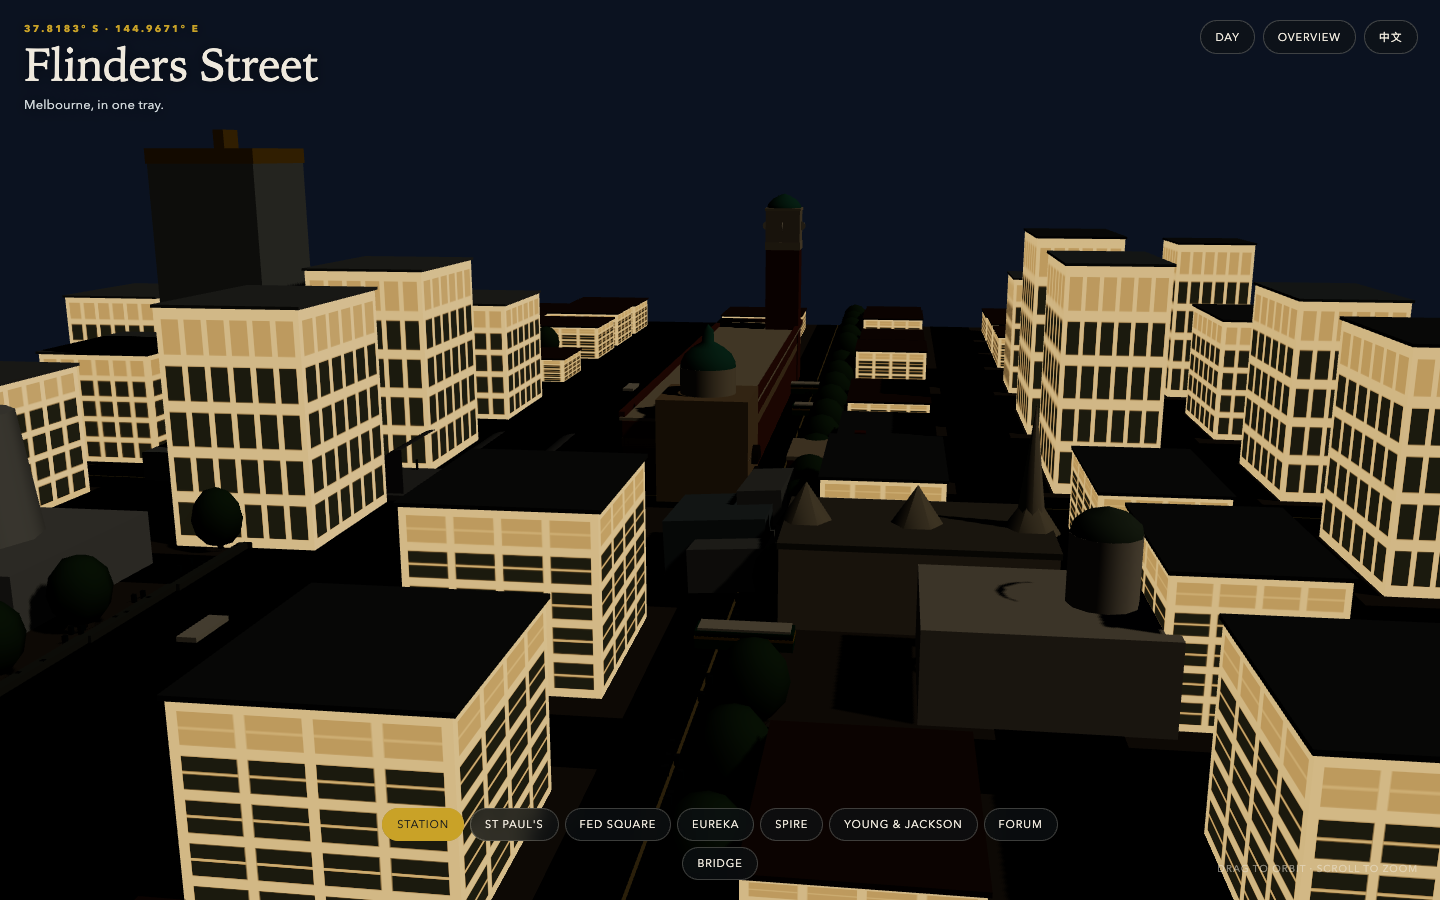
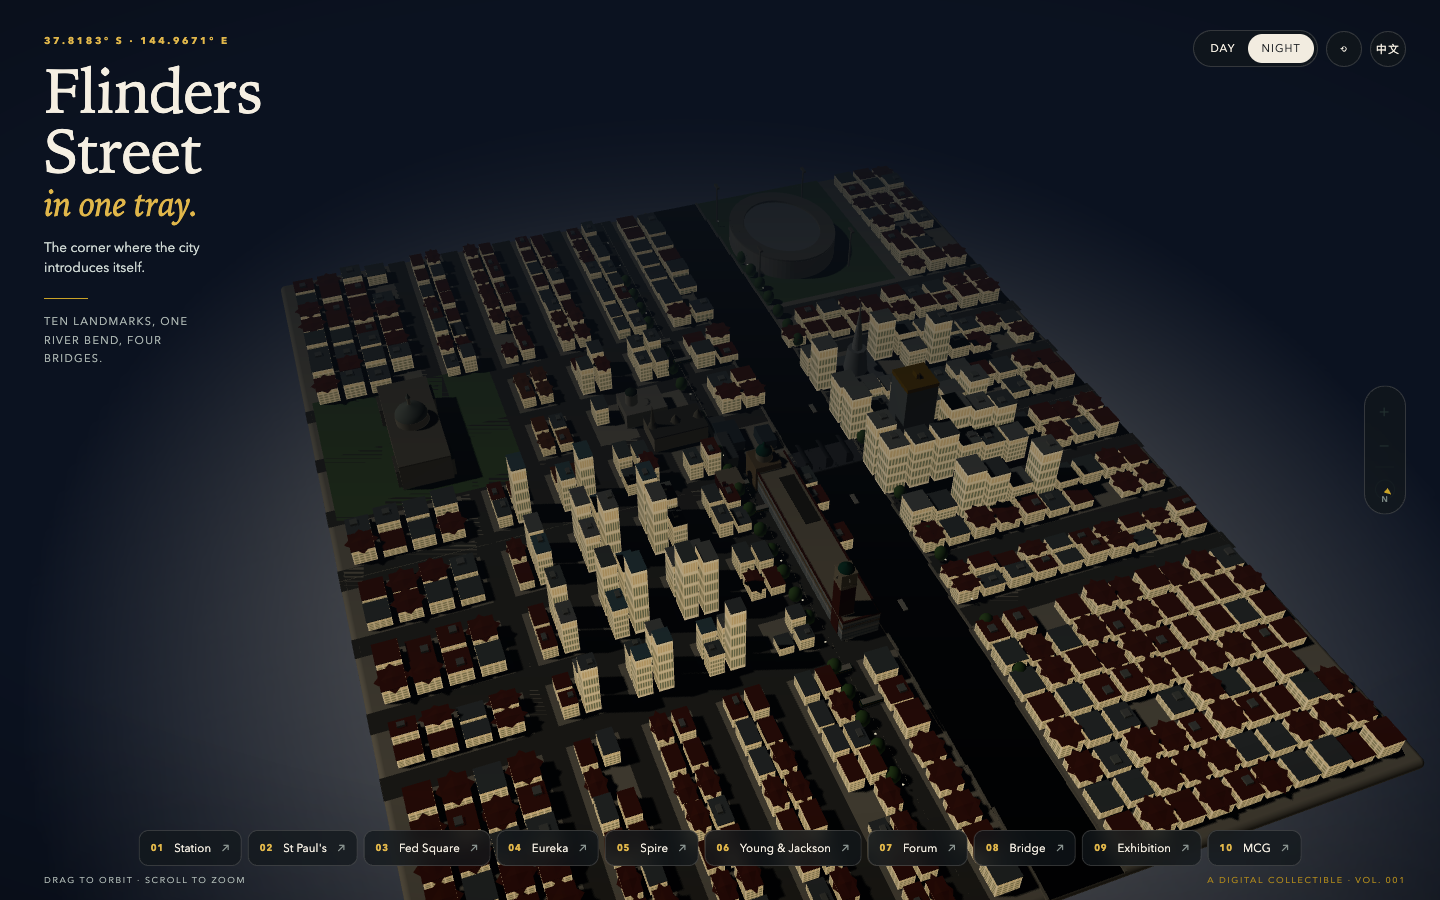
Stepped MCG bowl, street lamps, night-aware UI, per-landmark flight distance

diff --git a/src/scene/environment.ts b/src/scene/environment.ts
@@ -5,7 +5,7 @@ import { riverNorthEdge, riverSouthEdge } from './geography'
 import { instanced, rng, type Instance } from './kit'
 import { roads } from './plan'
 
-export function buildEnvironment(): { group: THREE.Group; water: THREE.Mesh; ground: THREE.Mesh } {
+export function buildEnvironment(): { group: THREE.Group; water: THREE.Mesh; ground: THREE.Mesh; lampHeads: THREE.InstancedMesh } {
   const group = new THREE.Group()
   group.name = 'environment'
   const rand = rng(3)
@@ -137,5 +137,24 @@ export function buildEnvironment(): { group: THREE.Group; water: THREE.Mesh; gro
     group.add(shelter)
   }
 
-  return { group, water, ground }
+  // street lamps: dark posts with warm glowing heads
+  const posts: Instance[] = []
+  const heads: Instance[] = []
+  for (let u = -340; u < 430; u += 46) {
+    for (const v of [-11, 118]) {
+      posts.push({ u, v, w: 0.45, d: 0.45, h: 7.5, color: 0x4a5052 })
+      heads.push({ u, v, w: 1.3, d: 1.3, h: 0.5, y: 7.5, color: 0xffe3b0 })
+    }
+  }
+  const lampPostMesh = instanced(new THREE.CylinderGeometry(0.3, 0.4, 1, 5), new THREE.MeshLambertMaterial({ color: 0xffffff }), posts, 'lampposts')
+  const lampHeadMesh = instanced(
+    new THREE.SphereGeometry(0.75, 8, 6),
+    new THREE.MeshLambertMaterial({ color: 0xfff2d4, emissive: 0xffc46b, emissiveIntensity: 0 }),
+    heads,
+    'lampheads'
+  )
+  group.add(lampPostMesh)
+  group.add(lampHeadMesh)
+
+  return { group, water, ground, lampHeads: lampHeadMesh }
 }

diff --git a/src/scene/landmarks.ts b/src/scene/landmarks.ts
@@ -1,4 +1,5 @@
 import * as THREE from 'three'
+import { mergeGeometries } from 'three/addons/utils/BufferGeometryUtils.js'
 import { PALETTE } from './constants'
 import { facadeTexture } from './kit'
 
@@ -244,6 +245,30 @@ function mcg(): THREE.Group {
   bowl.castShadow = true
   bowl.receiveShadow = true
   g.add(bowl)
+
+  // stepped seating: two merged tiers rings, alternating pale blue and grey
+  const tiers: THREE.BufferGeometry[][] = [[], []]
+  for (let i = 0; i < 15; i++) {
+    const o = new THREE.Shape()
+    o.absellipse(0, 0, 52 + i * 1.25, 40 + i * 1.0, 0, Math.PI * 2, false, 0)
+    const h = new THREE.Path()
+    h.absellipse(0, 0, 52 + (i + 1) * 1.25, 40 + (i + 1) * 1.0, 0, Math.PI * 2, true, 0)
+    o.holes.push(h)
+    const g = new THREE.ExtrudeGeometry(o, { depth: 1.1, bevelEnabled: false, curveSegments: 30 })
+    g.rotateX(-Math.PI / 2)
+    g.translate(0, 1.4 + i * 1.35, 0)
+    tiers[i % 2].push(g)
+  }
+  const seatColours = [0xdfe4e8, 0x9fa8b0]
+  tiers.forEach((list, k) => {
+    const merged = mergeGeometries(list)
+    if (!merged) return
+    const seats = new THREE.Mesh(merged, lambert(seatColours[k]))
+    seats.position.set(340, 0, 172)
+    seats.castShadow = true
+    seats.receiveShadow = true
+    g.add(seats)
+  })
 
   const field = new THREE.Mesh(new THREE.CircleGeometry(1, 56), lambert(0x6f9e5c))
   field.scale.set(50, 38, 1)

diff --git a/src/scene/scene.ts b/src/scene/scene.ts
@@ -99,7 +99,7 @@ export function createMini(canvas: HTMLCanvasElement): Mini {
     const lm = LANDMARKS.find((l) => l.id === id)
     if (!lm) return
     active = id
-    const k = 2.4
+    const k = 'dist' in lm ? (lm as { dist: number }).dist : 2.4
     const target = localToWorld(lm.u, lm.v, lm.look * 0.5)
     const pos = localToWorld(lm.u + lm.view[0] * k, lm.v + lm.view[1] * k, lm.look * 1.3 + 55)
     flight = { from: camera.position.clone(), to: pos, tFrom: controls.target.clone(), tTo: target, t: 0 }
@@ -150,6 +150,8 @@ export function createMini(canvas: HTMLCanvasElement): Mini {
     hemi.color.lerpColors(new THREE.Color(0xcfe0f0), new THREE.Color(0x1b2a3a), night)
     const water = env.water.material as THREE.MeshPhongMaterial
     water.color.lerpColors(new THREE.Color(PALETTE.day.water), new THREE.Color(PALETTE.night.water), night)
+    const lampMat = env.lampHeads.material as THREE.MeshLambertMaterial
+    lampMat.emissiveIntensity = night * 2.2
     cityGroup.traverse((o) => {
       const mesh = o as THREE.Mesh
       const mat = mesh.material as THREE.MeshLambertMaterial | undefined

diff --git a/src/scene/constants.ts b/src/scene/constants.ts
@@ -70,8 +70,8 @@ export const LANDMARKS = [
   { id: 'youngjackson', name: 'Young & Jackson', cn: '青年与杰克逊酒馆', short: 'Young & Jackson', u: -6, v: -18, look: 10, view: [45, 35] },
   { id: 'forum', name: 'Forum Theatre', cn: '论坛剧院', short: 'Forum', u: 118, v: -60, look: 25, view: [70, 50] },
   { id: 'bridge', name: 'Princes Bridge', cn: '王子桥', short: 'Bridge', u: 0, v: 76, look: 8, view: [60, 45] },
-  { id: 'exhibition', name: 'Royal Exhibition Building', cn: '皇家展览馆', short: 'Exhibition', u: 150, v: -268, look: 46, view: [90, 70] },
-  { id: 'mcg', name: 'Melbourne Cricket Ground', cn: '墨尔本板球场', short: 'MCG', u: 340, v: 172, look: 34, view: [110, 85] },
+  { id: 'exhibition', name: 'Royal Exhibition Building', cn: '皇家展览馆', short: 'Exhibition', u: 150, v: -268, look: 46, view: [90, 70], dist: 3.4 },
+  { id: 'mcg', name: 'Melbourne Cricket Ground', cn: '墨尔本板球场', short: 'MCG', u: 340, v: 172, look: 34, view: [110, 85], dist: 3.6 },
 ] as const
 
 export type LandmarkId = (typeof LANDMARKS)[number]['id']

diff --git a/src/style.css b/src/style.css
@@ -103,3 +103,22 @@ html, body, #root { margin: 0; height: 100%; overflow: hidden; }
   .card .arrow { display: none; }
   .foot { left: 18px; right: 14px; bottom: 4px; font-size: 8px; }
 }
+
+
+/* night: the scene goes dark, so the UI must invert to stay readable */
+body.night { color: #f2ece0; }
+body.night .hud h1 { color: #f5efe2; }
+body.night .tagline { color: #cdd6d2; }
+body.night .lede, body.night .foot { color: #a9b3af; }
+body.night .eyebrow { color: #e0b64a; }
+body.night .hud h1 em { color: #e0b64a; }
+body.night .seg, body.night .ghost, body.night .rail, body.night .card {
+  background: rgba(16,22,26,.72); border-color: rgba(242,236,224,.16); color: #f2ece0;
+}
+body.night .seg button { color: #f2ece0; }
+body.night .seg button.on { background: #f2ece0; color: #14181c; }
+body.night .card .num { color: #e0b64a; }
+body.night .card .arrow { color: #8a9490; }
+body.night .vignette {
+  background: radial-gradient(120% 90% at 50% 45%, rgba(0,0,0,0) 50%, rgba(0,0,0,.45) 100%);
+}

diff --git a/src/App.tsx b/src/App.tsx
@@ -16,12 +16,22 @@ export default function App() {
     const mini = createMini(canvasRef.current)
     miniRef.current = mini
     ;(window as unknown as { __mini: Mini }).__mini = mini
-    const id = setInterval(() => setAz(Math.round(mini.azimuth())), 120)
+    const id = setInterval(() => {
+      setAz(Math.round(mini.azimuth()))
+      // keep the overlay in step with the scene, including external capture calls
+      const s = mini.state()
+      setNight((n) => (Math.abs(n - s.night) > 0.01 ? s.night : n))
+      setActive((a) => (a === s.landmark ? a : s.landmark))
+    }, 150)
     return () => {
       clearInterval(id)
       mini.dispose()
     }
   }, [])
+
+  useEffect(() => {
+    document.body.classList.toggle('night', night > 0.5)
+  }, [night])
 
   const t = COPY[locale]
   const pick = (id: LandmarkId) => {
